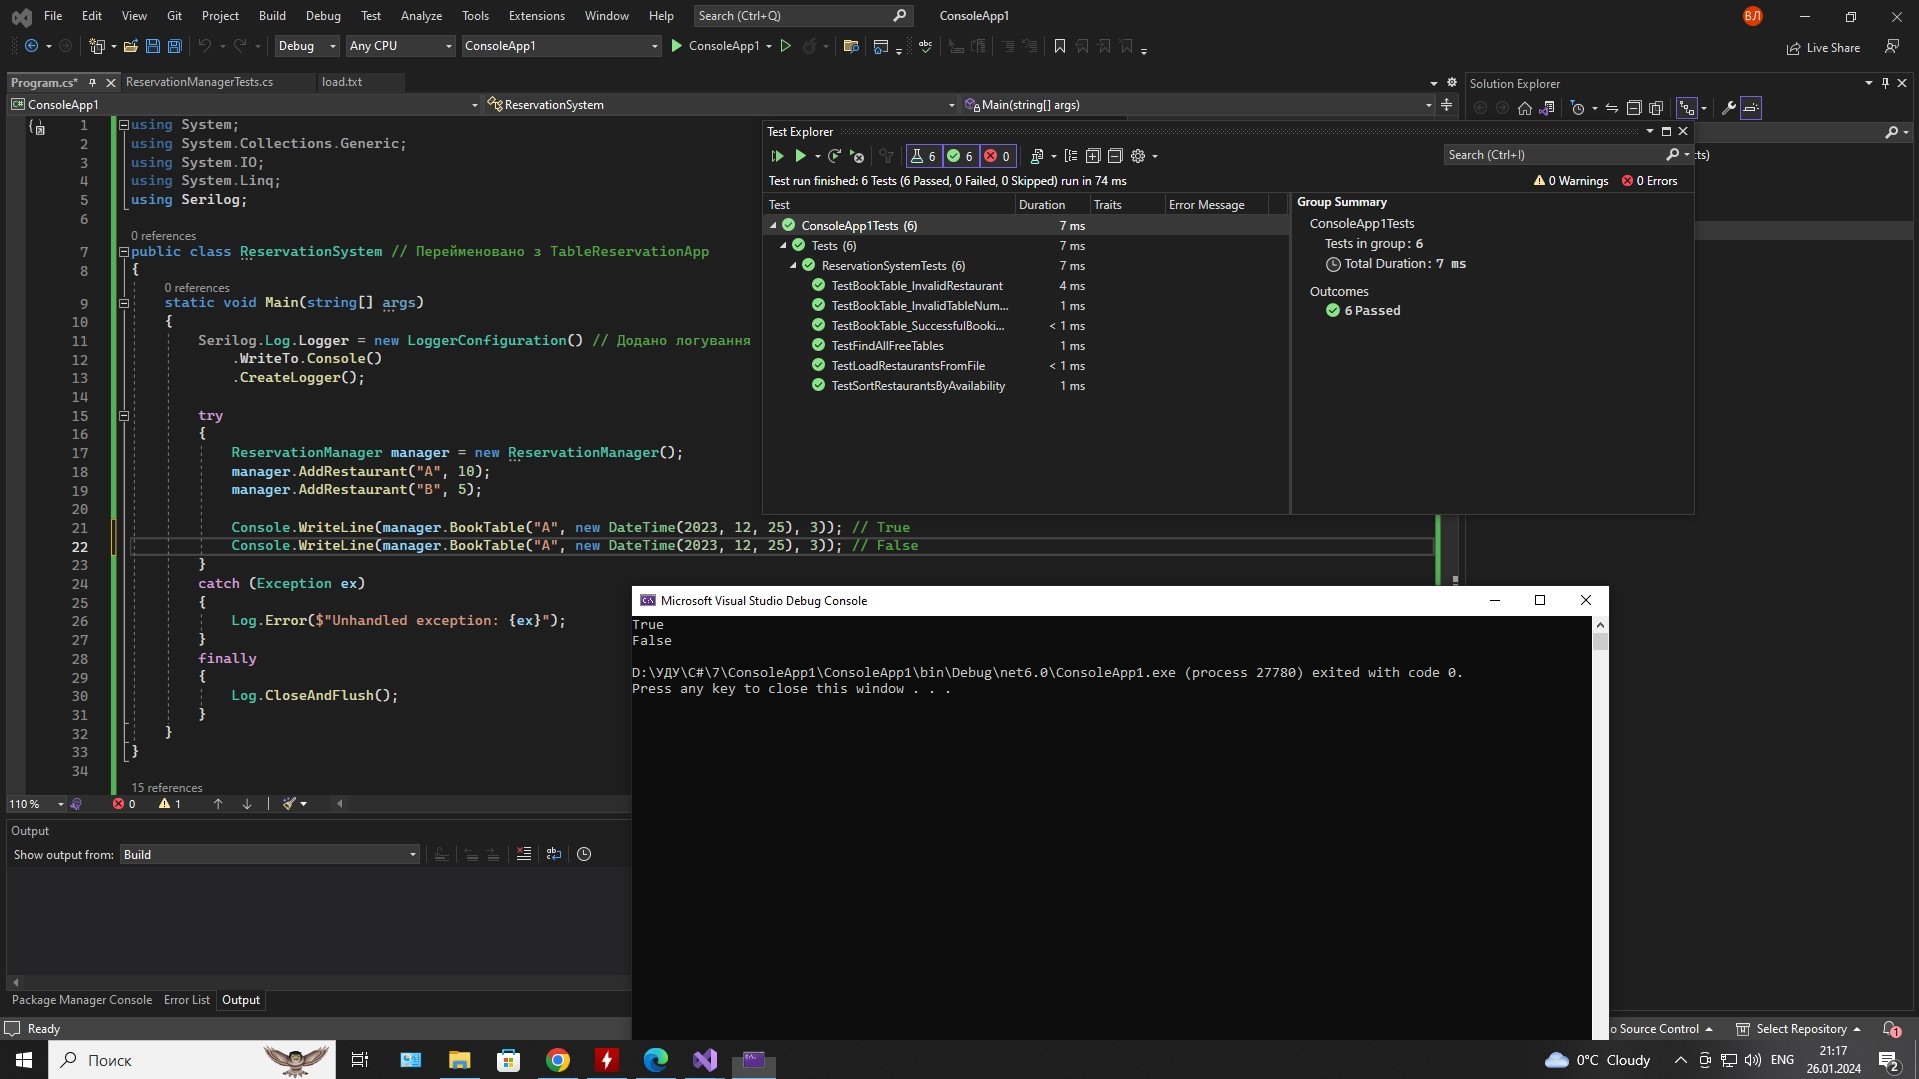
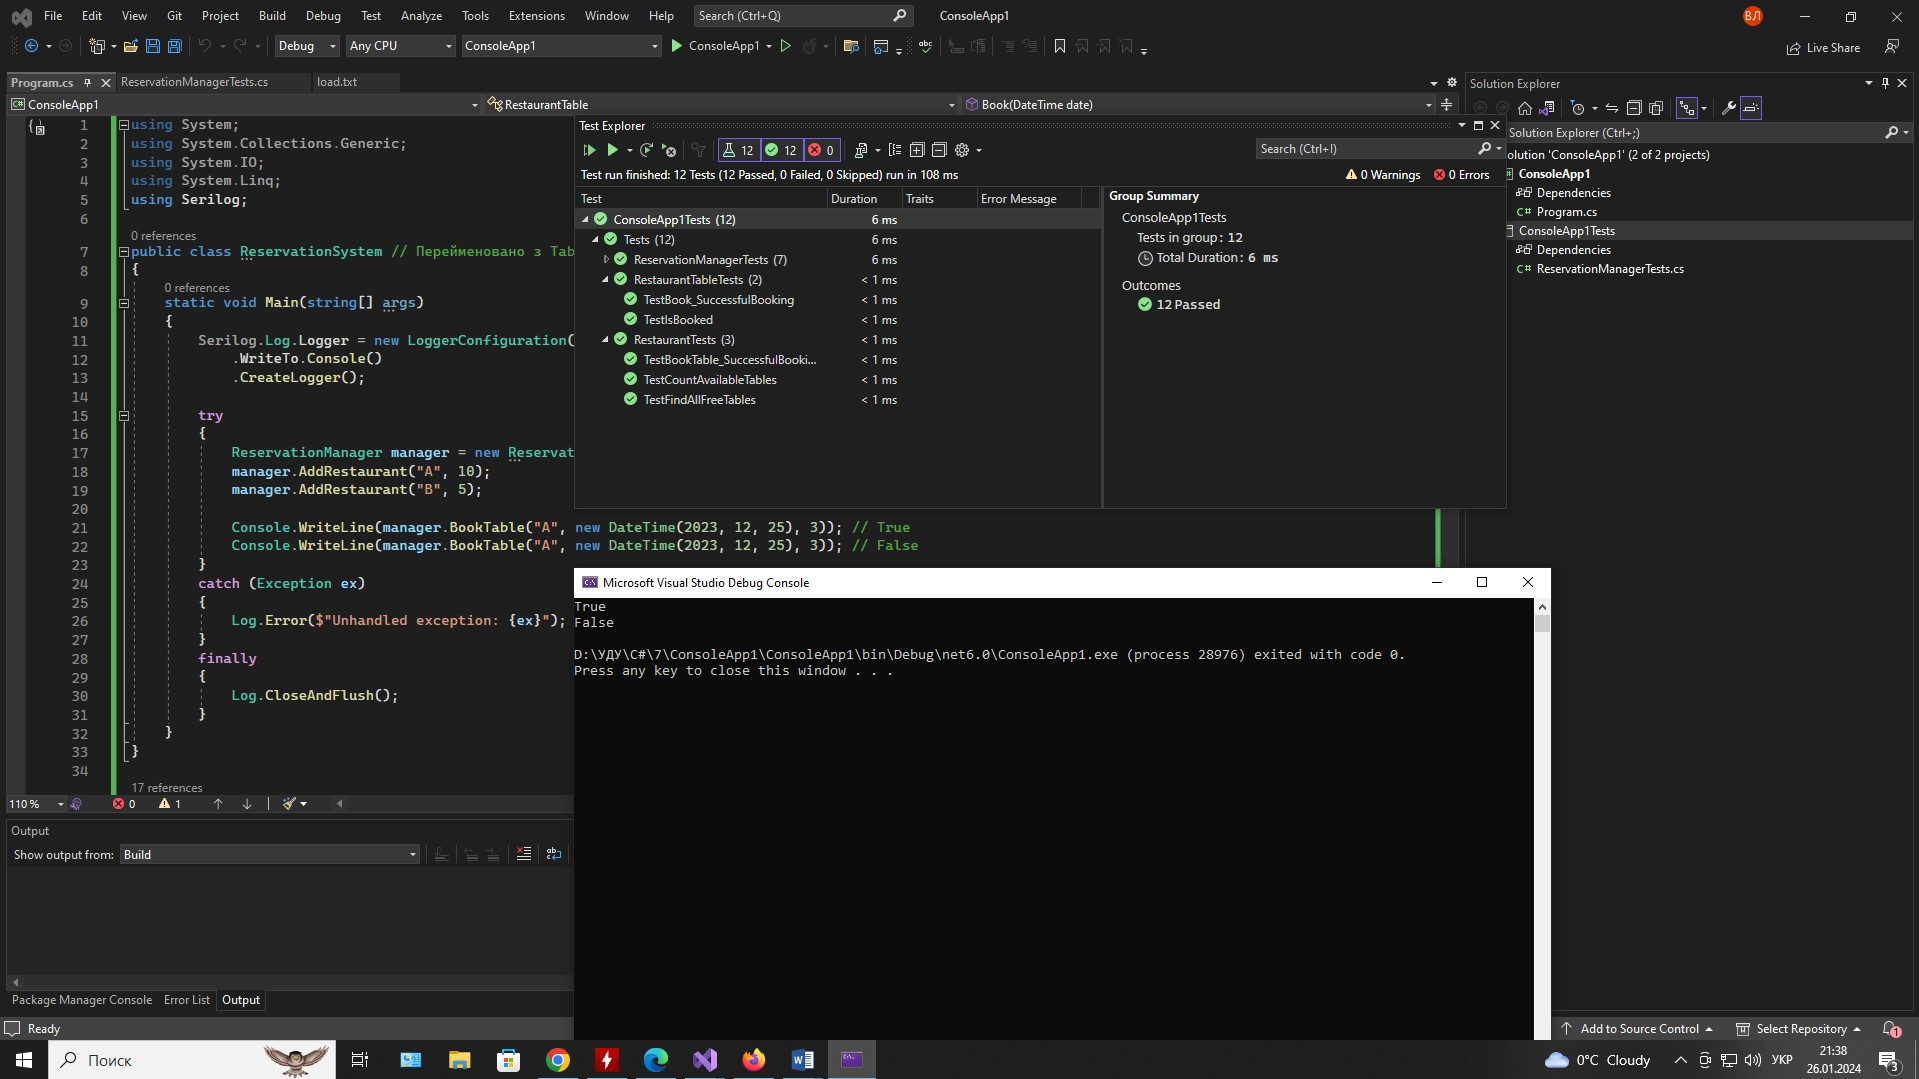
lab7 update

diff --git a/Lab7/ConsoleApp1/ConsoleApp1Tests/ReservationManagerTests.cs b/Lab7/ConsoleApp1/ConsoleApp1Tests/ReservationManagerTests.cs
@@ -1,15 +1,50 @@
 using Microsoft.VisualStudio.TestTools.UnitTesting;
 using System;
-using System.Collections.Generic;
-using System.Linq;
-using System.Text;
-using System.Threading.Tasks;
+using System.Reflection;
 
 namespace Tests
 {
     [TestClass]
-    public class ReservationSystemTests
+    public class ReservationManagerTests
     {
+        [TestMethod]
+        public void TestAddRestaurant()
+        {
+            ReservationManager manager = new ReservationManager();
+
+            manager.AddRestaurant("A", 10);
+            manager.AddRestaurant("B", 5);
+
+            var restaurantCount = manager.GetType().GetField("restaurants", BindingFlags.NonPublic | BindingFlags.Instance)?.
+                GetValue(manager) as List<Restaurant>;
+
+            Assert.AreEqual(2, restaurantCount?.Count ?? 0);
+        }
+
+        [TestMethod]
+        public void TestLoadRestaurantsFromFile()
+        {
+            ReservationManager manager = new ReservationManager();
+            string filePath = "D:\\УДУ\\C#\\7\\ConsoleApp1\\load.txt";
+
+            manager.LoadRestaurantsFromFile(filePath);
+
+            Assert.AreEqual(518, manager.FindAllFreeTables(DateTime.Now).Count());
+        }
+
+        [TestMethod]
+        public void TestFindAllFreeTables()
+        {
+            ReservationManager manager = new ReservationManager();
+            manager.AddRestaurant("A", 5);
+            DateTime bookingDate = new DateTime(2023, 12, 25);
+
+            var freeTables = manager.FindAllFreeTables(bookingDate);
+
+            Assert.IsNotNull(freeTables);
+            Assert.AreEqual(5, freeTables.Count());
+        }
+
         [TestMethod]
         public void TestBookTable_SuccessfulBooking()
         {
@@ -33,7 +68,6 @@ namespace Tests
             Assert.IsFalse(bookingResult);
         }
 
-
         [TestMethod]
         public void TestBookTable_InvalidTableNumber()
         {
@@ -44,19 +78,6 @@ namespace Tests
             bool bookingResult = manager.BookTable("A", bookingDate, 10);
 
             Assert.IsFalse(bookingResult);
-        }
-
-        [TestMethod]
-        public void TestFindAllFreeTables()
-        {
-            ReservationManager manager = new ReservationManager();
-            manager.AddRestaurant("A", 5);
-            DateTime bookingDate = new DateTime(2023, 12, 25);
-
-            var freeTables = manager.FindAllFreeTables(bookingDate);
-
-            Assert.IsNotNull(freeTables);
-            Assert.AreEqual(5, freeTables.Count());
         }
 
         [TestMethod]
@@ -71,20 +92,74 @@ namespace Tests
 
             var sortedRestaurants = manager.FindAllFreeTables(bookingDate);
             Assert.IsNotNull(sortedRestaurants);
-            CollectionAssert.AreEqual(new List<string> { "B - Table 1", "B - Table 2", "B - Table 3", 
-                "B - Table 4", "B - Table 5", "B - Table 6", "B - Table 7", "B - Table 8", "B - Table 9", "B - Table 10", 
+            CollectionAssert.AreEqual(new List<string> { "B - Table 1", "B - Table 2", "B - Table 3",
+                "B - Table 4", "B - Table 5", "B - Table 6", "B - Table 7", "B - Table 8", "B - Table 9", "B - Table 10",
                 "A - Table 1", "A - Table 2", "A - Table 3", "A - Table 4", "A - Table 5" }, sortedRestaurants.ToList());
+        }
+    }
+
+    [TestClass]
+    public class RestaurantTests
+    {
+        [TestMethod]
+        public void TestFindAllFreeTables()
+        {
+            Restaurant restaurant = new Restaurant("A", 5);
+            DateTime bookingDate = new DateTime(2023, 12, 25);
+
+            var freeTables = restaurant.FindAllFreeTables(bookingDate);
+
+            Assert.IsNotNull(freeTables);
+            Assert.AreEqual(5, freeTables.Count());
         }
 
         [TestMethod]
-        public void TestLoadRestaurantsFromFile()
+        public void TestBookTable_SuccessfulBooking()
         {
-            ReservationManager manager = new ReservationManager();
-            string filePath = "D:\\УДУ\\C#\\7\\ConsoleApp1\\load.txt";
+            Restaurant restaurant = new Restaurant("A", 10);
+            DateTime bookingDate = new DateTime(2023, 12, 25);
 
-            manager.LoadRestaurantsFromFile(filePath);
+            bool bookingResult = restaurant.BookTable(bookingDate, 3);
 
-            Assert.AreEqual(518, manager.FindAllFreeTables(DateTime.Now).Count());
+            Assert.IsTrue(bookingResult);
+        }
+
+        [TestMethod]
+        public void TestCountAvailableTables()
+        {
+            Restaurant restaurant = new Restaurant("A", 5);
+            DateTime bookingDate = new DateTime(2023, 12, 25);
+
+            var availableTables = restaurant.CountAvailableTables(bookingDate);
+
+            Assert.AreEqual(5, availableTables);
+        }
+    }
+
+    [TestClass]
+    public class RestaurantTableTests
+    {
+        [TestMethod]
+        public void TestBook_SuccessfulBooking()
+        {
+            RestaurantTable table = new RestaurantTable(1);
+            DateTime bookingDate = new DateTime(2023, 12, 25);
+
+            bool bookingResult = table.Book(bookingDate);
+
+            Assert.IsTrue(bookingResult);
+        }
+
+        [TestMethod]
+        public void TestIsBooked()
+        {
+            RestaurantTable table = new RestaurantTable(1);
+            DateTime bookingDate = new DateTime(2023, 12, 25);
+
+            table.Book(bookingDate);
+            bool isBooked = table.IsBooked(bookingDate);
+
+            Assert.IsTrue(isBooked);
         }
     }
 }

diff --git a/Lab7/ConsoleApp1/ConsoleApp1/Program.cs b/Lab7/ConsoleApp1/ConsoleApp1/Program.cs
@@ -18,8 +18,8 @@ public class ReservationSystem // Перейменовано з TableReservation
             manager.AddRestaurant("A", 10);
             manager.AddRestaurant("B", 5);
 
-            Console.WriteLine(manager.BookTable("A", new DateTime(2023, 12, 25), 3));
-            Console.WriteLine(manager.BookTable("A", new DateTime(2023, 12, 25), 3));
+            Console.WriteLine(manager.BookTable("A", new DateTime(2023, 12, 25), 3)); // True
+            Console.WriteLine(manager.BookTable("A", new DateTime(2023, 12, 25), 3)); // False
         }
         catch (Exception ex)
         {
